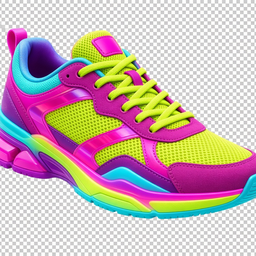
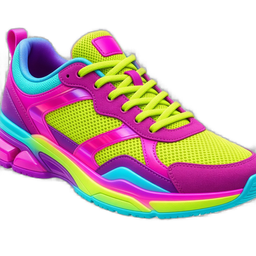
Well Sneakers: scroll-to-top dock + transparent chip stickers (#319)
* Well Sneakers: knockout chip stickers + catalog scroll chrome

Replace opaque studio-bg chip PNGs with 3D renders on transparent
alpha. On catalog scroll, dock gains ↑ Наверх and a ☰ FAB jumps
back to the collections/filters stack.

* Well Sneakers: swap catalog chips to design rembg cutouts

Overwrite chip-{white,bright,strict,sale}-256.png with the provided
RGBA assets (transparent corners 0,0,0,0). Keep dock Наверх + ☰ FAB.

---------

Changed region(s): [[0.0, 0.0, 1.0, 0.5938], [0.0, 0.6562, 1.0, 1.0]]

diff --git a/wellsneakers-shop/web/catalog.html b/wellsneakers-shop/web/catalog.html
@@ -61,7 +61,7 @@
           <h3>Каталог</h3>
         </div>
 
-        <div class="collections-block">
+        <div class="collections-block" id="filtersStack">
           <div class="collection-chips" id="collectionRow" role="group" aria-label="Подборки">
             <button type="button" class="collection-chip" data-color="white" aria-pressed="false">
               <span class="collection-chip-thumb" aria-hidden="true">
@@ -122,9 +122,13 @@
       </section>
     </main>
 
-    <div class="dock">
+    <button type="button" class="filters-fab" id="filtersFab" aria-label="К подборкам и фильтрам">
+      <span class="filters-fab-ico" aria-hidden="true"><span></span><span></span><span></span></span>
+    </button>
+    <div class="dock" id="catalogDock">
       <div class="dock-inner">
         <a class="btn-catalog" href="index.html">Главная</a>
+        <button type="button" class="btn btn-top" id="backToTop">↑ Наверх</button>
         <a class="btn btn-rug" href="tel:+375256851757">Позвонить</a>
       </div>
     </div>
@@ -619,6 +623,41 @@
         showToast('Заказ ' + data.order.order_number);
         await loadCatalog();
       };
+
+      const SCROLL_CHROME_AT = 240;
+      const backToTop = document.getElementById('backToTop');
+      const filtersFab = document.getElementById('filtersFab');
+      const filtersStack = document.getElementById('filtersStack') || document.getElementById('collectionRow');
+      function preferInstantScroll() {
+        return window.matchMedia && window.matchMedia('(prefers-reduced-motion: reduce)').matches;
+      }
+      function syncCatalogScrollChrome() {
+        const y = window.scrollY || document.documentElement.scrollTop || 0;
+        const on = y > SCROLL_CHROME_AT;
+        document.body.classList.toggle('catalog-scrolled', on);
+        if (backToTop) backToTop.setAttribute('aria-hidden', on ? 'false' : 'true');
+        if (filtersFab) filtersFab.setAttribute('aria-hidden', on ? 'false' : 'true');
+      }
+      window.addEventListener('scroll', syncCatalogScrollChrome, { passive: true });
+      window.addEventListener('resize', syncCatalogScrollChrome);
+      syncCatalogScrollChrome();
+      if (backToTop) {
+        backToTop.addEventListener('click', () => {
+          window.scrollTo({ top: 0, behavior: preferInstantScroll() ? 'auto' : 'smooth' });
+        });
+      }
+      if (filtersFab) {
+        filtersFab.addEventListener('click', () => {
+          if (!filtersStack) {
+            window.scrollTo({ top: 0, behavior: preferInstantScroll() ? 'auto' : 'smooth' });
+            return;
+          }
+          filtersStack.scrollIntoView({
+            behavior: preferInstantScroll() ? 'auto' : 'smooth',
+            block: 'start'
+          });
+        });
+      }
 
       let qTimer = null;
       qEl.addEventListener('input', () => {

diff --git a/wellsneakers-shop/web/styles.css b/wellsneakers-shop/web/styles.css
@@ -317,7 +317,37 @@ main{position:relative;z-index:1}
   width:min(var(--max),100%);margin:0 auto;
   display:grid;grid-template-columns:1.2fr 1fr;gap:8px;
 }
+.page-catalog .dock-inner{grid-template-columns:1.2fr 1fr}
+body.page-catalog.catalog-scrolled .dock-inner{
+  grid-template-columns:minmax(0,1.05fr) minmax(0,.95fr) minmax(0,1.05fr);
+  gap:6px;
+}
 .dock .btn{width:100%;min-height:40px}
+.dock .btn-top{
+  display:none;
+  min-height:40px;border-radius:10px;padding:0 8px;
+  font-family:var(--display);font-size:15px;letter-spacing:.05em;text-transform:uppercase;font-weight:400;
+  white-space:nowrap;
+  background:#f5f2ec;color:#111;border:2px solid #111;box-shadow:2px 2px 0 #111;
+}
+body.page-catalog.catalog-scrolled .dock .btn-top{display:inline-flex}
+body.page-catalog.catalog-scrolled .dock .btn-catalog,
+body.page-catalog.catalog-scrolled .dock .btn-rug,
+body.page-catalog.catalog-scrolled .dock .btn-top{
+  font-size:14px;letter-spacing:.04em;padding-left:6px;padding-right:6px;
+}
+.filters-fab{
+  position:fixed;right:max(12px, env(safe-area-inset-right, 0px));
+  bottom:calc(58px + var(--safe-b));z-index:52;
+  width:40px;height:40px;padding:0;border-radius:10px;
+  border:2px solid #111;background:#f5f2ec;color:#111;box-shadow:2px 2px 0 #111;
+  display:none;align-items:center;justify-content:center;
+}
+body.page-catalog.catalog-scrolled .filters-fab{display:inline-flex}
+.filters-fab:focus{outline:none}
+.filters-fab:focus-visible{outline:2px solid var(--cyan);outline-offset:2px}
+.filters-fab-ico{display:grid;gap:3px}
+.filters-fab-ico span{display:block;width:16px;height:2px;background:#111;border-radius:1px}
 .dock .btn-rug,
 .cart-dock{
   font-family:var(--display);font-size:15px;letter-spacing:.06em;text-transform:uppercase;
@@ -395,7 +425,9 @@ main{position:relative;z-index:1}
 .collections-block{
   min-width:0;margin:0 0 10px;
   display:grid;gap:8px;
+  scroll-margin-top:12px;
 }
+#collectionRow{scroll-margin-top:12px}
 .collection-chips{
   display:flex;
   flex-wrap:wrap;
@@ -434,6 +466,8 @@ main{position:relative;z-index:1}
 .collection-chip-thumb img{
   width:100%;height:100%;
   object-fit:contain;object-position:center;
+  background:transparent;
+  mix-blend-mode:normal;
 }
 .collection-chip-label{
   font-family:var(--display);font-size:16px;letter-spacing:.06em;

diff --git a/wellsneakers-shop/TZ.md b/wellsneakers-shop/TZ.md
@@ -150,8 +150,8 @@ MODEL NAME (жирный)
 - [x] Витрина с заказом (ФИО/телефон/адрес/самовывоз|доставка)
 - [x] Каталог сайта: импорт OC (~398) → на витрине все с наличием (~310; нулевые скрыты)
 - [~] Главная: плюшки **выше** `#him`/`#her`, индикатор **стрелка** (не плюс); без фейкового «белые −15%»; hero `assets/store.jpg` как есть (**960×1280**, ~296KB; attrs не 1734×1971; без full-bleed апскейла, полный кадр позже). Верхней строки чипов Ему/Ей/Скидки **нет** (ни sticky, ни под hero). Плитки `#him`/`#her` ниже плюшек остаются. Телефон витрины **+375 25 685-17-57** / `tel:+375256851757`. «Скидки» в hero → `catalog.html?sale=1`. Favicon прозрачный. **нужен pull `web/` на VPS**
-- [~] Каталог: чипы **Мужское / Женское** в одном стеке с подборками (сразу после Белые/Яркие/Строгие/Скидки, **выше** брендов и размеров); компактные pills `.street-opt`. Фильтры и шапка **не sticky** — при скролле каталога уезжают вверх. Док внизу компактный (меньше padding/кнопки). `?gender=men` / `women` (home tiles уже так ведут). API `GET /api/catalog?gender=` режет по `products.gender` (`men`/`women`/`unisex`/null). Infer только из явных токенов/категории OC, иначе null. Пусто → «Нет моделей». Кнопки «Как заказать» нет. **нужен redeploy API** + pull `web/`
-- [~] Каталог подборки: компактные чипы как плюшки `.perk` — 3D-стикеры `assets/chips/chip-*-256.png` (28–32px, `object-fit: contain`, без кропа фото) + **Белые / Яркие / Строгие / Скидки**, **выше** брендов и размеров. Не большие фото-плитки. URL `?color=white` / `bright` / `black`, `?sale=1`. H3 «Каталог» без подписи/api-banner. API `GET /api/catalog?color=` + клиентский fallback (white / vivid RED-PINK-YELLOW-GREEN-BLUE-ORANGE… / black). Пусто → «Нет белых/ярких/строгих моделей» / «Сейчас скидок нет». **нужен pull `web/`**; `?color=bright` на API — после redeploy
+- [~] Каталог: чипы **Мужское / Женское** в одном стеке с подборками (сразу после Белые/Яркие/Строгие/Скидки, **выше** брендов и размеров); компактные pills `.street-opt`. Фильтры и шапка **не sticky** — при скролле каталога уезжают вверх. Док внизу компактный (~51px). При `scrollY` > ~240px док → 3 колонки `[Главная] [↑ Наверх] [Позвонить]` (smooth scroll наверх) + справа FAB ☰ над доком → `#filtersStack` / `#collectionRow`. У верха ↑ и ☰ скрыты. `?gender=men` / `women` (home tiles уже так ведут). API `GET /api/catalog?gender=` режет по `products.gender` (`men`/`women`/`unisex`/null). Infer только из явных токенов/категории OC, иначе null. Пусто → «Нет моделей». Кнопки «Как заказать» нет. **нужен redeploy API** + pull `web/`
+- [~] Каталог подборки: компактные чипы как плюшки `.perk` — 3D-стикеры `assets/chips/chip-*-256.png` (альфа, без белой студийной пластины; thumb `background:transparent` + `object-fit: contain`) + **Белые / Яркие / Строгие / Скидки**, **выше** брендов и размеров. Не большие фото-плитки. URL `?color=white` / `bright` / `black`, `?sale=1`. H3 «Каталог» без подписи/api-banner. API `GET /api/catalog?color=` + клиентский fallback (white / vivid RED-PINK-YELLOW-GREEN-BLUE-ORANGE… / black). Пусто → «Нет белых/ярких/строгих моделей» / «Сейчас скидок нет». **нужен pull `web/`**; `?color=bright` на API — после redeploy
 - [~] Скидки на витрине: `products.old_price_byn` (nullable); on sale = `old_price_byn > price_byn`; `GET /api/catalog?sale=1` → только уценённые, `total=0` → «Сейчас скидок нет». Staff create/patch + OC import мапят old/special. **нужен redeploy API**
 - [~] Одна карточка на модель, цвета как варианты (`color`+`model_key`, `GET /api/catalog` → `models[]`). Staff по артикулу не ломаем. **нужен redeploy VPS**
 - [~] Бренды витрины: OC `ad1das`/`ree6ok`/`triger` → Adidas/Reebok/New Balance; имя vs manufacturer (арт. 1441 ASICS+Nike → Asics); SALOMON/SUPERSTAR из имени. Backfill на старте API. **нужен redeploy VPS**
